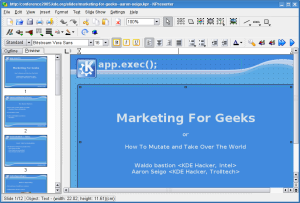
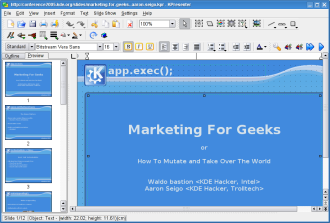
change screenshot location and width
git-svn-id: svn+ssh://svn.kde.org/home/kde/trunk/www/areas/koffice@462993 283d02a7-25f6-0310-bc7c-ecb5cbfe19da

diff --git a/kpresenter/index.php b/kpresenter/index.php
@@ -10,7 +10,19 @@
   $appinfo->showIconAndCopyright();
 ?>
 
-    <p>KPresenter is a presentation application. Its features include:</p>
+    <p>KPresenter is a presentation application. With KPresenter, you can prepare a set of slides for use in an
+    on-screen slideshow or for printing. Your slides can include text and graphics in a variety of formats, and of course, you can embed all sorts of objects.</p>
+        
+    <center>
+    <?php
+    $gallery = new ImageGallery("KPresenter- Screenshot");
+    $gallery->addImage("pics/kpresenter_sm.png", "pics/kpresenter.png", 330, 223,  "[Screenshot]", "", "KPresenter");
+    $gallery->show();
+    ?>
+    </center>
+
+
+    <p>Its features include:</p>
 
     <ul>
     <li>support for the standard OASIS OpenDocument file format</li>
@@ -32,16 +44,13 @@
     <li>a Presentations Structure Viewer</li>
     </ul>
 
-        <center>
-        <?php
-        $gallery = new ImageGallery("KPresenter- Screenshot");
-        $gallery->addImage("pics/kpresenter_sm.png", "pics/kpresenter.png", 300, 203,  "[Screenshot]", "", "KPresenter");
-        $gallery->show();
-        ?>
-        </center>
-
     <p>You can find some of the presentations that KPresenter has been used for: <a href="http://www.kde.org/kdeslides/">http://www.kde.org/kdeslides/</a>.</p>
 
+ <br />
+ <hr width="30%" align="center" />
+ <p>
+ Last update: <?php echo date ("Y-m-d", filemtime(__FILE__)); ?>
+ </p>
 <?php
   include("footer.inc");
 ?>
